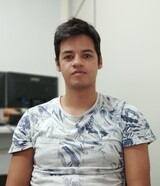
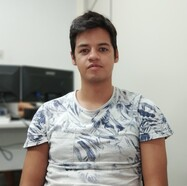
Updating Rodrigo's short bio

diff --git a/index.html b/index.html
@@ -198,21 +198,20 @@
 									</li>
 
 									<li>
-										<span class="image circle"><img src="images/profiles/rodrigo_zamb.jpeg" alt="rodrigo.jpeg"/></span>
+										<span class="image circle"><img src="images/profiles/rodrigo.jpg" alt="rodrigo.jpg"/></span>
 										<a href="#openModal_7"><h3><strong>Rodrigo Zambrana</strong></h3></a>
 										<div id="openModal_7" class="modalDialog">
 											<div>
 											  <a href="#close" title="Close" class="close">X</a>
 											  <h2>Rodrigo Zambrana</h2>
-											  <p>Rodrigo Zambrana<br>
-												Rodrigo Zambrana is a PhD Candidate at Université de Guyane and WeatherForce (France-based weather-intelligence company). 
+											  <p>Rodrigo Zambrana is a PhD Candidate at Université de Guyane and WeatherForce (France-based weather-intelligence company). 
 												He is an electronics' engineer specialized in signal and image processing and data science pursuing a PhD in Earth Sciences 
 												researching the optimal estimation of rainfall merging from various sources of information (satellite ; gauges ; weather radar and 
 												telecommunication network) and novel data science methods.
 											  </p>
 											</div>
 										</div>
-										<h4>WeatherForce</h4>
+										<h4>FUNCEME</h4>
 									</li>
 
 									<li>
